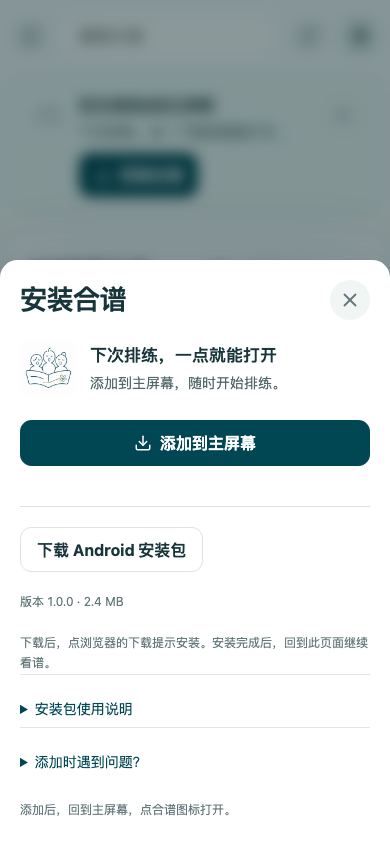
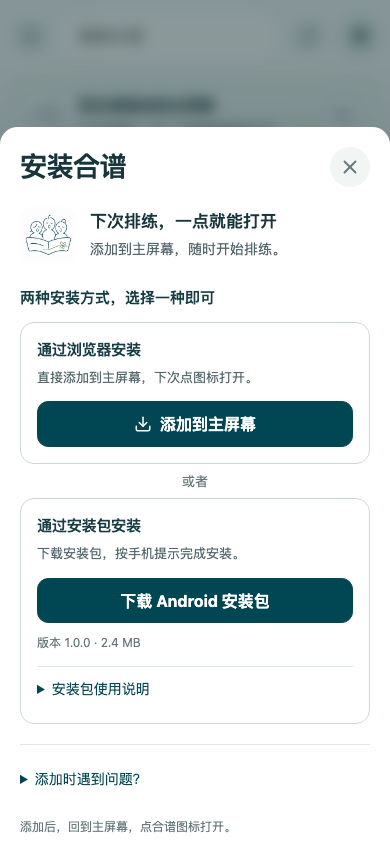
fix: present Android installation as two explicit choices

diff --git a/src/client/install/android-install-option.tsx b/src/client/install/android-install-option.tsx
@@ -1,8 +1,8 @@
-import { useEffect, useState } from "react";
+import { useEffect, useState, type ReactNode } from "react";
 import { androidReleaseSchema, type AndroidRelease } from "../../shared/android-release";
 
 /** Mounted only in external Android browsers, after the user opens installation. */
-export function AndroidInstallOption() {
+export function AndroidInstallOption({ children }: { children: ReactNode }) {
   const [release, setRelease] = useState<AndroidRelease | null>(null);
   useEffect(() => {
     const controller = new AbortController();
@@ -15,14 +15,24 @@ export function AndroidInstallOption() {
       }).catch(() => { /* The existing PWA choice remains available offline. */ });
     return () => controller.abort();
   }, []);
-  if (!release) return null;
-  return <section className="install-apk" aria-label="Android 安装包">
-    <a className="secondary-button" href="/api/android-release/apk" download>下载 Android 安装包</a>
+  if (!release) return children;
+  return <div className="install-choices">
+    <p className="install-choice-intro">两种安装方式，选择一种即可</p>
+    <section className="install-choice" aria-label="通过浏览器安装">
+      <h3>通过浏览器安装</h3>
+      <p className="install-choice-description">直接添加到主屏幕，下次点图标打开。</p>
+      {children}
+    </section>
+    <div className="install-choice-or">或者</div>
+    <section className="install-choice" aria-label="Android 安装包">
+    <h3>通过安装包安装</h3>
+    <p className="install-choice-description">下载安装包，按手机提示完成安装。</p>
+    <a className="primary-button install-native" href="/api/android-release/apk" download>下载 Android 安装包</a>
     <p className="install-note">版本 {release.versionName} · {(release.size / 1024 / 1024).toFixed(1)} MB</p>
-    <p className="install-note">下载后，点浏览器的下载提示安装。安装完成后，回到此页面继续看谱。</p>
+
     <details className="install-fallback"><summary>安装包使用说明</summary>
       <p>按系统提示允许本次安装。合谱仍需兼容的浏览器运行；安装后不会自动下载乐谱。</p>
       <p>如果打开后需要重新登录，使用原来的登录方式。其他浏览器中的本机笔记和离线乐谱不会自动转移。</p>
     </details>
-  </section>;
+  </section></div>;
 }

diff --git a/src/client/install/install-provider.tsx b/src/client/install/install-provider.tsx
@@ -84,8 +84,9 @@ export function InstallProvider({ children }: { children: ReactNode }) {
         <div className="install-intro"><img src="/icon-192.png" width="56" height="56" alt="" /><div><strong>下次排练，一点就能打开</strong><p>添加到主屏幕，随时开始排练。</p></div></div>
         {requested ? <InstallCompletion guide={guide} /> : <>
         {external && <p className="install-platform-note">{ios ? "先用 Safari 打开，再添加到主屏幕。" : "先在浏览器中打开，再添加到主屏幕。"}</p>}
-        {prompt && !external ? <Button className="primary-button install-native" isDisabled={busy} onPress={() => void install()}><Download size={18} />添加到主屏幕</Button> : <InstallSteps guide={guide} />}
-        {guide === "android" && <AndroidInstallOption />}
+        {guide === "android" ? <AndroidInstallOption>
+          {prompt ? <Button className="primary-button install-native" isDisabled={busy} onPress={() => void install()}><Download size={18} />添加到主屏幕</Button> : <details className="install-choice-manual"><summary>查看浏览器安装步骤</summary><InstallSteps guide={guide} /></details>}
+        </AndroidInstallOption> : prompt && !external ? <Button className="primary-button install-native" isDisabled={busy} onPress={() => void install()}><Download size={18} />添加到主屏幕</Button> : <InstallSteps guide={guide} />}
         <details className="install-fallback"><summary>{external ? "找不到浏览器选项？" : "添加时遇到问题？"}</summary>
           {ios && <p>没有“添加到主屏幕”？向下滚动分享菜单，或在“编辑操作”中添加；也可以用 Safari 再试。</p>}
           {android && <><p>添加后没有图标？到手机设置中找到当前浏览器 → 权限 / 其他权限，查找“创建桌面快捷方式”并允许；没有此项可跳过。</p><p>仍无法添加，可换浏览器尝试。Chrome 安装可能受 Google Play 服务或网络影响。</p></>}

diff --git a/src/client/install/install.css b/src/client/install/install.css
@@ -54,5 +54,13 @@
 }
 .install-suggestion .install-button { padding: 8px 14px; }
 
-.install-apk { margin-top: 1.25rem; padding-top: 1.25rem; border-top: 1px solid var(--border, #dce3e2); }
-.install-apk > a { display: inline-flex; text-decoration: none; }
+ .install-choices { margin-bottom: 20px; }
+.install-choice-intro { color: #173d44; font-size: 15px; font-weight: 600; margin: 0 0 14px; }
+.install-choice { padding: 16px; border: 1px solid #cbd8d9; border-radius: 14px; }
+.install-choice h3 { margin: 0; font-size: 17px; color: #173d44; }
+.install-choice-description { font-size: 13px; line-height: 1.6; color: #52666b; margin: 7px 0 14px; }
+.install-choice .install-native { box-sizing: border-box; margin: 0; text-decoration: none; }
+.install-choice .install-note { margin-top: 10px; }
+.install-choice .install-fallback { margin-top: 12px; padding-top: 4px; }
+.install-choice-or { text-align: center; color: #65777a; font-size: 13px; margin: 8px 0; }
+.install-choice-manual summary { cursor: pointer; color: #014653; padding: 10px 0; }
